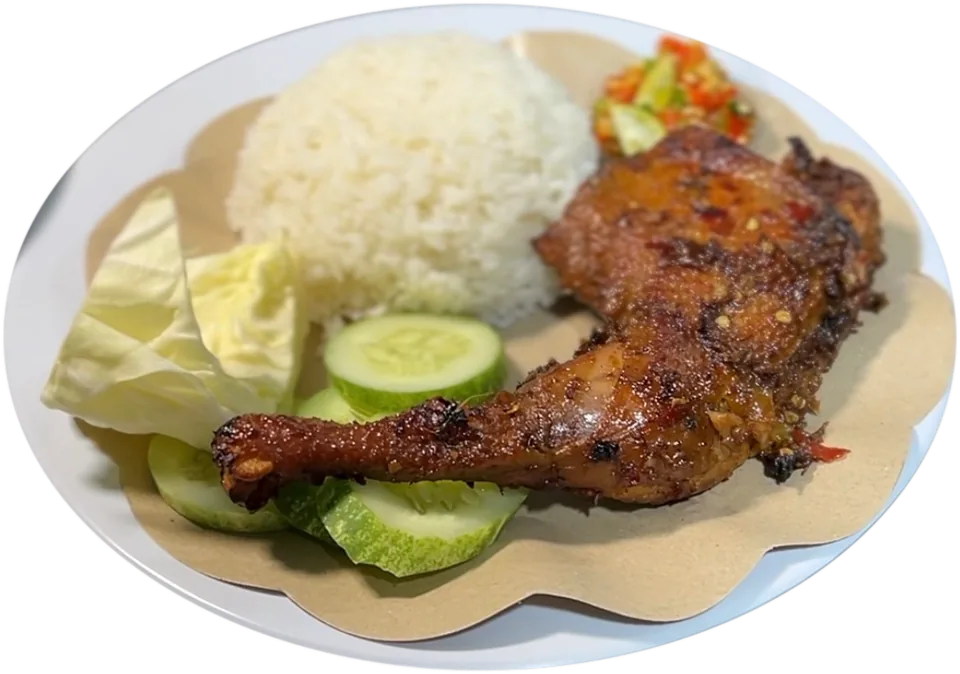
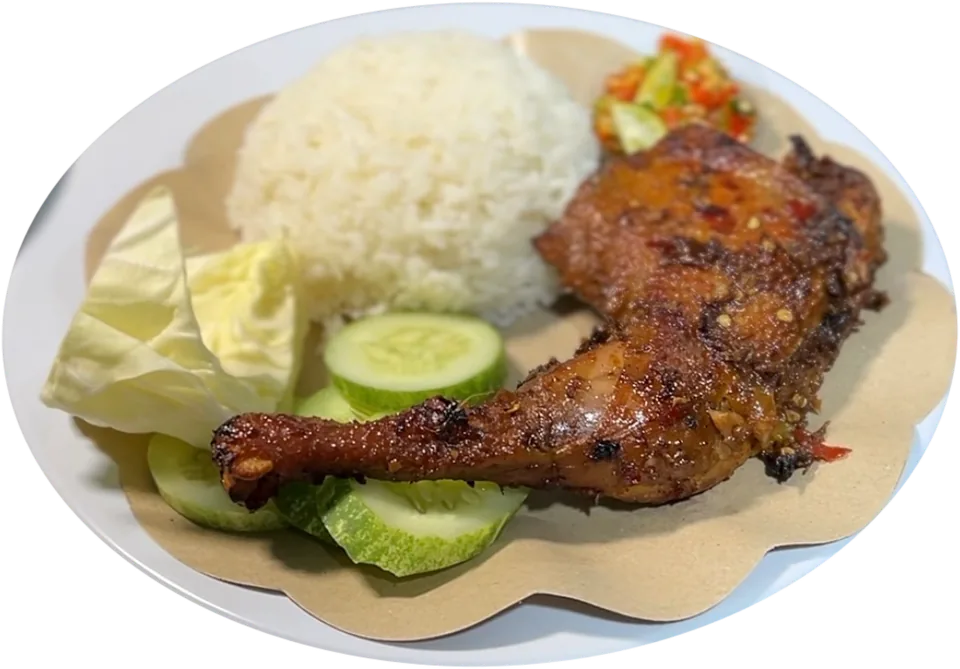
feat(apw): menu baru dari Fran + tepi piring hero dirapikan
Menu APW diperbarui sesuai desain menu story Fran (17 Nov 2026): urutan
& deskripsi pendek baru, tambah Ikan Gurame Panggang Rp 40.000, Ati
Ampela jadi Rp 10.000, Mineral jadi Air Mineral. `npm run apw:menu`
hanya menyamakan menu (foto dari Admin & status tersedia dipertahankan,
cabang & teks halaman tidak disentuh).

Potongan piring hero dibuat ulang: tepi putih piring dideteksi lalu
dipaskan ke elips mulus, jadi bayangan meja di tepi kiri-bawah hilang.

diff --git a/prisma/apw.ts b/prisma/apw.ts
@@ -36,21 +36,14 @@ type MenuCategoryData = {
   items: { name: string; price: number; portion?: string; description?: string; imageUrl?: string; featured?: boolean }[];
 };
 
-/** Menu resmi APW (dari Fran, 29 Sep 2026). Deskripsi hanya untuk tiga menu unggulan (popup Beranda). */
+/**
+ * Menu resmi APW. Versi 17 Nov 2026 dari Fran (desain menu story "Smoky-nya bikin nagih"): urutan & deskripsi pendek
+ * baru, tambah Ikan Gurame Panggang, "Sate Ati Ampela" jadi "Ati Ampela" Rp 10.000, "Mineral" jadi "Air Mineral".
+ */
 export const APW_MENU: MenuCategoryData[] = [
   {
     name: "Makanan",
     items: [
-      { name: "Nasi", price: 5000 },
-      {
-        name: "Ayam Panggang Negeri",
-        portion: "1/4 ekor · dada / paha",
-        price: 25000,
-        featured: true,
-        // Foto dari video TikTok resmi APW (sajian ayam panggang di atas daun pisang).
-        imageUrl: "/brands/apw/tiktok/piring-sambal.webp",
-        description: "Seperempat ekor ayam negeri, dibaluri bumbu rempah lalu dipanggang di dalam tungku gerabah. Pilih bagian dada atau paha.",
-      },
       {
         name: "Ayam Panggang Kampung",
         portion: "1/4 ekor · dada / paha",
@@ -58,17 +51,29 @@ export const APW_MENU: MenuCategoryData[] = [
         featured: true,
         // TODO: konfirmasi Fran — foto khusus ayam kampung (foto sekarang: ayam panggang di atas daun pisang dari video TikTok).
         imageUrl: "/brands/apw/tiktok/piring-daun-pisang.webp",
-        description: "Seperempat ekor ayam kampung, dibaluri bumbu rempah lalu dipanggang di dalam tungku gerabah. Pilih bagian dada atau paha.",
+        description: "Panas pelan, bumbu meresap sampai dalam.",
+      },
+      {
+        name: "Ayam Panggang Negeri",
+        portion: "1/4 ekor · dada / paha",
+        price: 25000,
+        featured: true,
+        // Foto dari video TikTok resmi APW (sajian ayam panggang di atas daun pisang).
+        imageUrl: "/brands/apw/tiktok/piring-sambal.webp",
+        description: "Wangi bakaran menempel di daging.",
       },
       {
         name: "Bebek Panggang",
-        portion: "paha / dada",
+        portion: "1/4 ekor · paha / dada",
         price: 38000,
         featured: true,
         // TODO: konfirmasi Fran — foto bebek asli (foto sekarang: nasi & lauk panggang dari reel IG).
         imageUrl: "/brands/apw/foto/menu-bebek-panggang.webp",
-        description: "Buat yang mau selain ayam: bebek panggang, pilih bagian paha atau dada. Paling pas dengan nasi dan sate pilihan.",
+        description: "Gurih pekat dengan aroma asap.",
       },
+      // TODO: konfirmasi Fran — foto ikan gurame panggang (belum ada, tampil tanpa foto).
+      { name: "Ikan Gurame Panggang", price: 40000, description: "Daging lembut bertemu asap." },
+      { name: "Nasi", price: 5000, description: "Hangat, teman wajib di meja." },
     ],
   },
   {
@@ -80,7 +85,7 @@ export const APW_MENU: MenuCategoryData[] = [
       { name: "Krupuk", price: 5000 },
       { name: "Kol Goreng", price: 6000 },
       { name: "Sate Kulit", price: 7000 },
-      { name: "Sate Ati Ampela", price: 7000 },
+      { name: "Ati Ampela", price: 10000 },
       { name: "Pete", price: 15000 },
     ],
   },
@@ -89,7 +94,7 @@ export const APW_MENU: MenuCategoryData[] = [
     items: [
       { name: "Teh Tawar Panas", price: 2000 },
       { name: "Es Teh Tawar", price: 3000 },
-      { name: "Mineral", price: 5000 },
+      { name: "Air Mineral", price: 5000 },
       { name: "Es Teh Manis", price: 5000 },
       { name: "Teh Manis Panas", price: 5000 },
       { name: "Es Teh Kampul", price: 8000 },

diff --git a/prisma/apw-menu.ts b/prisma/apw-menu.ts
@@ -1,0 +1,73 @@
+// Samakan menu Ayam Panggang Wicaksono dengan APW_MENU di prisma/apw.ts (17 Nov 2026: menu baru dari Fran).
+// Berbeda dengan `npm run apw:seed`: hanya menyentuh menu brand `apw`. Cabang, teks halaman (Admin), promo & galeri
+// tidak diubah. Item dicocokkan lewat nama: harga, porsi, deskripsi, unggulan & urutan ikut kode; foto yang sudah diisi
+// di Admin dipertahankan (foto dari kode hanya dipakai kalau kosong); status "tersedia" tidak diubah.
+// Item & kategori yang tidak ada di APW_MENU dihapus (mis. "Sate Ati Ampela" → "Ati Ampela", "Mineral" → "Air Mineral").
+//   npm run apw:menu                  (DB lokal)
+//   npm run apw:menu -- --izinkan-vps (VPS, setelah backup DB)
+import { PrismaClient } from "@prisma/client";
+import { APW_MENU, APW_SLUG } from "./apw";
+
+const prisma = new PrismaClient();
+
+async function main() {
+  const url = process.env.DATABASE_URL ?? "";
+  const local = /@(localhost|127\.0\.0\.1)[:/]/.test(url);
+  if (!local && !process.argv.includes("--izinkan-vps")) {
+    throw new Error("DATABASE_URL bukan lokal. Jalankan dengan --izinkan-vps setelah backup DB.");
+  }
+
+  const brand = await prisma.brand.findUnique({ where: { slug: APW_SLUG }, select: { id: true } });
+  if (!brand) throw new Error(`Brand ${APW_SLUG} tidak ada.`);
+  const where = { brandId: brand.id };
+
+  const result = await prisma.$transaction(async (tx) => {
+    const keepItems: string[] = [];
+    const keepCats: string[] = [];
+    let created = 0;
+    let updated = 0;
+
+    for (const [ci, cat] of APW_MENU.entries()) {
+      const existingCat = await tx.menuCategory.findFirst({ where: { ...where, name: cat.name } });
+      const category = existingCat
+        ? await tx.menuCategory.update({ where: { id: existingCat.id }, data: { order: ci } })
+        : await tx.menuCategory.create({ data: { ...where, name: cat.name, order: ci } });
+      keepCats.push(category.id);
+
+      for (const [ii, item] of cat.items.entries()) {
+        const data = {
+          categoryId: category.id,
+          price: item.price,
+          portion: item.portion ?? null,
+          description: item.description ?? null,
+          isFeatured: item.featured ?? false,
+          order: ii,
+        };
+        const existing = await tx.menuItem.findFirst({ where: { ...where, name: item.name }, select: { id: true, imageUrl: true } });
+        if (existing) {
+          await tx.menuItem.update({ where: { id: existing.id }, data: { ...data, imageUrl: existing.imageUrl ?? item.imageUrl ?? null } });
+          keepItems.push(existing.id);
+          updated++;
+        } else {
+          const row = await tx.menuItem.create({ data: { ...where, ...data, name: item.name, imageUrl: item.imageUrl ?? null } });
+          keepItems.push(row.id);
+          created++;
+        }
+      }
+    }
+
+    const removed = await tx.menuItem.findMany({ where: { ...where, id: { notIn: keepItems } }, select: { name: true } });
+    await tx.menuItem.deleteMany({ where: { ...where, id: { notIn: keepItems } } });
+    await tx.menuCategory.deleteMany({ where: { ...where, id: { notIn: keepCats } } });
+    return { created, updated, removed: removed.map((r) => r.name) };
+  });
+
+  console.log(`✔ Menu APW: ${result.updated} diperbarui, ${result.created} dibuat, dihapus: ${result.removed.join(", ") || "-"}`);
+}
+
+main()
+  .catch((e) => {
+    console.error(e);
+    process.exit(1);
+  })
+  .finally(() => prisma.$disconnect());

diff --git a/src/data/brands/apw-gerabah.ts b/src/data/brands/apw-gerabah.ts
@@ -21,12 +21,12 @@ export const GR_PHOTOS = {
     width: 552,
     height: 552,
   },
-  /** Foto piring hero Beranda dari Fran (17 Nov 2026), dipotong elips mengikuti piring, latar transparan. */
+  /** Foto piring hero Beranda dari Fran (17 Nov 2026), dipotong mengikuti tepi putih piring, latar transparan. */
   heroPiring: {
     src: "/brands/apw/foto/hero-piring-ayam.webp",
     alt: "Sepiring ayam panggang paha dengan nasi putih, sambal, timun, dan kol di atas alas kertas",
     width: 960,
-    height: 674,
+    height: 669,
   },
   sajian: {
     src: "/brands/apw/tiktok/sajian-piring-atas.webp",
@@ -210,7 +210,7 @@ export const GR = {
     extras: [
       {
         title: "Pilih sesukamu",
-        body: "Ayam negeri atau ayam kampung, bagian dada atau paha. Mau selain ayam? Ada bebek panggang. Lengkapi dengan sate usus, sate kulit, sate ati ampela, tempe, tahu, kol goreng, pete, atau krupuk.",
+        body: "Ayam negeri atau ayam kampung, bagian dada atau paha. Mau selain ayam? Ada bebek panggang dan ikan gurame panggang. Lengkapi dengan sate usus, sate kulit, ati ampela, tempe, tahu, kol goreng, pete, atau krupuk.",
       },
       { title: "Buat semua umur", body: "Datang bareng anak? Ada menu anak yang tidak pedas, tanpa bumbu panggang." },
       { title: "Dua cabang", body: "Kesambi buka 17.00–00.00 WIB, Kamis libur. Sumber buka 10.00–22.00 WIB setiap hari, satu tempat dengan Pecel Lele Aminoto Sumber." },

diff --git a/BRIEF-APW.md b/BRIEF-APW.md
@@ -24,11 +24,13 @@
 
 ## 2. Menu resmi (rupiah)
 
-**Makanan** — Nasi 5.000 · Ayam panggang negeri 1/4 (dada / paha) 25.000 · Ayam panggang kampung 1/4 (dada / paha) 35.000 · Bebek panggang (paha / dada) 38.000
+Versi 17 Nov 2026 dari Fran (desain menu story "Smoky-nya bikin nagih"):
 
-**Menu Tambahan** — Tempe 3.000 · Tahu 3.000 · Sate usus 4.000 · Krupuk 5.000 · Kol goreng 6.000 · Sate kulit 7.000 · Sate ati ampela 7.000 · Pete 15.000
+**Makanan** — Ayam panggang kampung 1/4 35.000 ("Panas pelan, bumbu meresap sampai dalam.") · Ayam panggang negeri 1/4 25.000 ("Wangi bakaran menempel di daging.") · Bebek panggang 1/4 38.000 ("Gurih pekat dengan aroma asap.") · Ikan gurame panggang 40.000 ("Daging lembut bertemu asap.") · Nasi 5.000 ("Hangat, teman wajib di meja.")
 
-**Minuman** — Teh tawar panas 2.000 · Es teh tawar 3.000 · Mineral 5.000 · Es teh manis 5.000 · Teh manis panas 5.000 · Es teh kampul 8.000 · Es jeruk 10.000 · Jeruk panas 10.000
+**Menu Tambahan** ("Pelengkap meja") — Tempe 3.000 · Tahu 3.000 · Sate usus 4.000 · Krupuk 5.000 · Kol goreng 6.000 · Sate kulit 7.000 · Ati ampela 10.000 · Pete 15.000
+
+**Minuman** — Teh tawar panas 2.000 · Es teh tawar 3.000 · Air mineral 5.000 · Es teh manis 5.000 · Teh manis panas 5.000 · Es teh kampul 8.000 · Es jeruk 10.000 · Jeruk panas 10.000
 
 Catatan: "Menu anak tidak pedas, tanpa bumbu panggang."
 Menu Unggulan (Beranda): Ayam Panggang Negeri, Ayam Panggang Kampung, Bebek Panggang.
